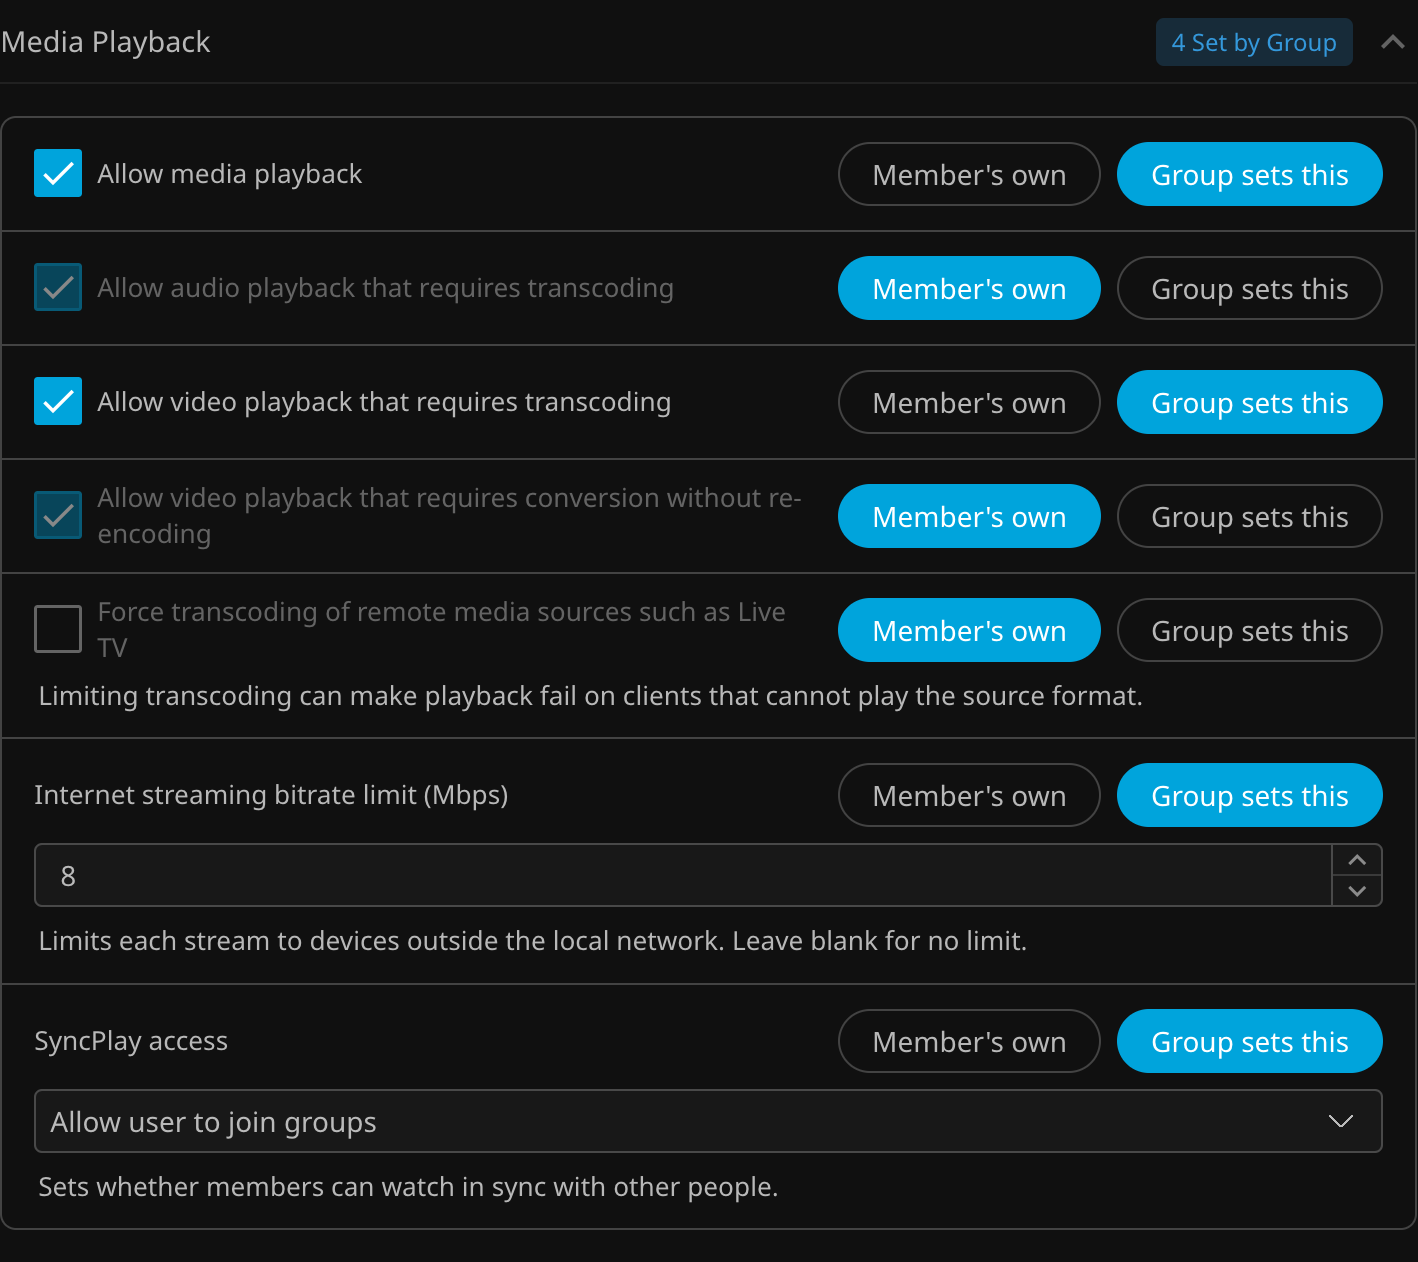
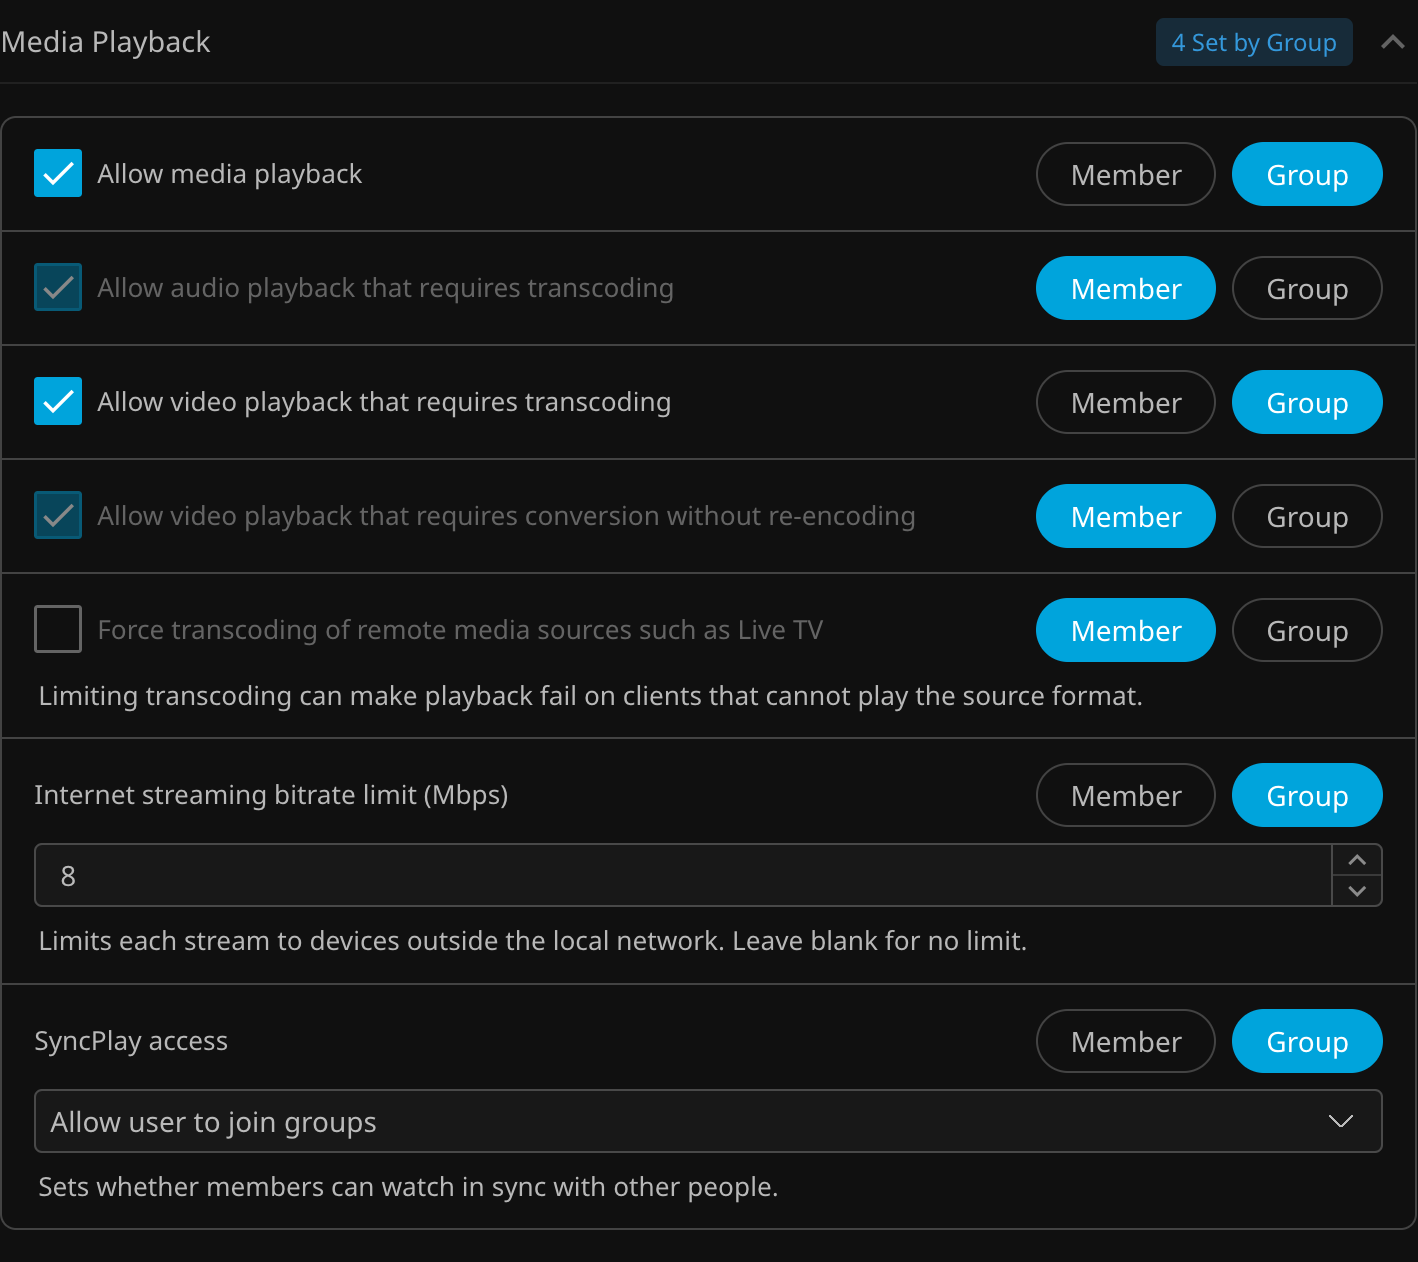
Name the setting row pills Member and Group

diff --git a/Jellyfin.Plugin.UserManagement/Configuration/usermanagement_groups.js b/Jellyfin.Plugin.UserManagement/Configuration/usermanagement_groups.js
@@ -20,8 +20,8 @@ import {
 } from './configurationpage?name=usermanagement_shared.js';
 
 // Groups page
-// Builds the Groups tab. Each setting row is an Inherit Field whose pills read Member's own and Group sets this, and only
-// settings on Group sets this reach members.
+// Builds the Groups tab. Each setting row is an Inherit Field whose pills read Member and Group, and only
+// settings on Group reach members.
 //
 // Inputs
 // view [HTMLElement]: The page the dashboard passes to the module.
@@ -59,9 +59,9 @@ export default function (view) {
         ['Movie', 'Movies'], ['Music', 'Music'], ['Trailer', 'Trailers'], ['Series', 'Shows']
     ];
 
-    // The two choices of every setting row. Only a setting on Group sets this reaches members.
-    var MEMBER_OWN = 'Member\'s own';
-    var GROUP_SETS = 'Group sets this';
+    // The two choices of every setting row. Only a setting on Group reaches members.
+    var MEMBER_OWN = 'Member';
+    var GROUP_SETS = 'Group';
 
     // Rows led by an "all" checkbox, whose list shows under it only while it is off, as Jellyfin's access page does.
     var ALL_TYPES = { library: true, channels: true, devices: true, deletion: true };
@@ -466,9 +466,9 @@ export default function (view) {
     }
 
     // mountInheritFields
-    // Puts each row's lead, its checkbox or its label, in an Inherit Field whose pills read Member's own and
-    // Group sets this. The row's controls keep the group's own values, so the field handle reads and writes nothing.
-    // While the row is Member's own, the Inherit Field dims the lead and disables its checkbox, and the controls
+    // Puts each row's lead, its checkbox or its label, in an Inherit Field whose pills read Member and
+    // Group. The row's controls keep the group's own values, so the field handle reads and writes nothing.
+    // While the row is Member, the Inherit Field dims the lead and disables its checkbox, and the controls
     // under the lead hide.
     function mountInheritFields() {
         view.querySelectorAll('.perm-row').forEach(function (row) {
@@ -490,7 +490,7 @@ export default function (view) {
     }
 
     // isManaged
-    // Says whether a setting is on Group sets this.
+    // Says whether a setting is on Group.
     //
     // Inputs
     // row [HTMLElement]: The setting row.
@@ -516,7 +516,7 @@ export default function (view) {
     }
 
     // setManaged
-    // Sets whether a setting is on Group sets this, and the group's own value of a checkbox lead.
+    // Sets whether a setting is on Group, and the group's own value of a checkbox lead.
     //
     // Inputs
     // row [HTMLElement]: The setting row.
@@ -525,7 +525,7 @@ export default function (view) {
     function setManaged(row, managed, value) {
         var handle = inheritHandles[row.getAttribute('data-perm')];
         if (!handle) return;
-        // The Inherit Field disables the lead's checkbox while inheriting, so it turns Group sets this on first and
+        // The Inherit Field disables the lead's checkbox while inheriting, so it turns Group on first and
         // the checkbox takes its value while enabled.
         handle.setValue({ inherit: false });
         var input = row.querySelector('.perm-lead-input');
@@ -535,7 +535,7 @@ export default function (view) {
     }
 
     // refreshRow
-    // Shows a row's controls only while it is Group sets this, and an access list only while its "all" checkbox is off.
+    // Shows a row's controls only while it is Group, and an access list only while its "all" checkbox is off.
     //
     // Inputs
     // row [HTMLElement]: The setting row.
@@ -548,7 +548,7 @@ export default function (view) {
     }
 
     // refreshBadges
-    // Counts the rows on Group sets this in each section, and shows the count in the section header.
+    // Counts the rows on Group in each section, and shows the count in the section header.
     function refreshBadges() {
         view.querySelectorAll('#permissionSections .base-collapsible-section, #configSections .base-collapsible-section').forEach(function (section) {
             var count = 0;
@@ -785,7 +785,7 @@ export default function (view) {
     }
 
     // renderPermBody
-    // Builds the controls under a row's lead, which show while the row is Group sets this.
+    // Builds the controls under a row's lead, which show while the row is Group.
     //
     // Inputs
     // p [object]: The setting from PERMISSIONS or CONFIG.
@@ -847,7 +847,7 @@ export default function (view) {
 
     // renderPermRow
     // Builds one setting row. The lead is the setting's checkbox, or its label when the setting has other controls,
-    // and the Inherit Field puts the Member's own and Group sets this pills beside it. The controls follow, then the
+    // and the Inherit Field puts the Member and Group pills beside it. The controls follow, then the
     // description.
     //
     // Inputs

diff --git a/Jellyfin.Plugin.UserManagement/Configuration/usermanagement_groups.html b/Jellyfin.Plugin.UserManagement/Configuration/usermanagement_groups.html
@@ -14,7 +14,7 @@
                     <!-- Intro -->
                     <div class="fieldDescription um-intro">
                         Groups apply settings to many users at once, and a user belongs to one group at a time. Only
-                        settings marked <strong>Group sets this</strong> reach members, and the rest stay as each member has them.
+                        settings marked <strong>Group</strong> reach members, and the rest stay as each member has them.
                     </div>
 
                     <div id="userCards"></div>

diff --git a/Jellyfin.Plugin.UserManagement/Configuration/usermanagement_shared.css b/Jellyfin.Plugin.UserManagement/Configuration/usermanagement_shared.css
@@ -29,7 +29,7 @@
 }
 
 /* um-setting-body */
-/* The controls under a setting row's lead, which hide while the row is Member's own. */
+/* The controls under a setting row's lead, which hide while the row is Member. */
 /* Example: <div class="um-setting-body"><div class="selectContainer">...</div></div> */
 .um-setting-body {
     display: flex;

diff --git a/Jellyfin.Plugin.UserManagement/Services/GroupService.cs b/Jellyfin.Plugin.UserManagement/Services/GroupService.cs
@@ -19,7 +19,7 @@ namespace Jellyfin.Plugin.UserManagement.Services;
 
 /// <summary>
 /// Applies <see cref="GroupDefinition"/> templates onto member <see cref="UserPolicy"/> objects,
-/// honoring the Group sets this / Member's own model: only permissions the group manages are written; the rest
+/// honoring the Group / Member model: only permissions the group manages are written; the rest
 /// are left exactly as the user has them.
 /// </summary>
 public class GroupService
@@ -120,7 +120,7 @@ public class GroupService
     }
 
     /// <summary>
-    /// Applies a group's managed (Group sets this) permissions to a single user. Administrators are always skipped.
+    /// Applies a group's managed (Group) permissions to a single user. Administrators are always skipped.
     /// </summary>
     /// <returns><c>true</c> if the policy was applied; <c>false</c> if the user was skipped.</returns>
     public async Task<bool> ApplyGroupAsync(User user, GroupDefinition group)

diff --git a/Jellyfin.Plugin.UserManagement/Models/GroupConfiguration.cs b/Jellyfin.Plugin.UserManagement/Models/GroupConfiguration.cs
@@ -6,7 +6,7 @@ namespace Jellyfin.Plugin.UserManagement.Models;
 /// <summary>
 /// The display and playback preferences a group applies to its members, mirroring the fields Jellyfin
 /// exposes on a user's Display / Home / Playback / Subtitles preference pages. Follows the same
-/// Group sets this / Member's own model as <see cref="GroupPermissions"/>: only settings the group manages overwrite
+/// Group / Member model as <see cref="GroupPermissions"/>: only settings the group manages overwrite
 /// the member's value; the rest are left exactly as the user has them.
 /// </summary>
 public class GroupConfiguration

diff --git a/Jellyfin.Plugin.UserManagement.Tests/GroupServiceConfigTests.cs b/Jellyfin.Plugin.UserManagement.Tests/GroupServiceConfigTests.cs
@@ -16,7 +16,7 @@ namespace Jellyfin.Plugin.UserManagement.Tests;
 /// <summary>
 /// Tests that <see cref="Services.GroupService.ApplyGroupAsync"/> pushes a group's managed
 /// <see cref="GroupConfiguration"/> onto the member through <c>UpdateConfigurationAsync</c>, honoring
-/// the Group sets this / Member's own model and the <see cref="GroupConfigurationExtensions.ManagesAnything"/> gate.
+/// the Group / Member model and the <see cref="GroupConfigurationExtensions.ManagesAnything"/> gate.
 /// </summary>
 [Collection("Plugin")]
 public class GroupServiceConfigTests

diff --git a/Jellyfin.Plugin.UserManagement.Tests/GroupConfigurationMergeTests.cs b/Jellyfin.Plugin.UserManagement.Tests/GroupConfigurationMergeTests.cs
@@ -7,7 +7,7 @@ using Xunit;
 namespace Jellyfin.Plugin.UserManagement.Tests;
 
 /// <summary>
-/// Tests for the Group sets this / Member's own behavior of <see cref="GroupConfigurationExtensions.ApplyTo"/>.
+/// Tests for the Group / Member behavior of <see cref="GroupConfigurationExtensions.ApplyTo"/>.
 /// </summary>
 public class GroupConfigurationMergeTests
 {

diff --git a/Jellyfin.Plugin.UserManagement.Tests/GroupMergeTests.cs b/Jellyfin.Plugin.UserManagement.Tests/GroupMergeTests.cs
@@ -7,7 +7,7 @@ using Xunit;
 namespace Jellyfin.Plugin.UserManagement.Tests;
 
 /// <summary>
-/// Tests for the Group sets this / Member's own behavior of <see cref="GroupPermissionsExtensions.ApplyTo"/>.
+/// Tests for the Group / Member behavior of <see cref="GroupPermissionsExtensions.ApplyTo"/>.
 /// </summary>
 public class GroupMergeTests
 {

diff --git a/skills/style.md b/skills/style.md
@@ -342,7 +342,7 @@ grep -o "export function create[A-Za-z]*" ~/.nuget/packages/jpkribs.jellyfin.bas
 | A read only value with a copy button, such as an invite link | `createCopyField` |
 | Day and time windows, such as an access schedule | `createAccessSchedule` |
 | A setting that inherits until overridden | `createInheritField` |
-| A group setting row, with its Member's own and Group sets this pills | See [Group Setting Rows](#group-setting-rows) |
+| A group setting row, with its Member and Group pills | See [Group Setting Rows](#group-setting-rows) |
 
 * Use `emby-select`, never `base-selector-dropdown`, for a field. `base-selector-dropdown` is only for the record picker.
 * Every input has a `<label for>`.
@@ -480,11 +480,11 @@ Every setting on the **Groups** tab is one row, built the same way in every sect
 
 * A section's rows are a Base `createList` with `layout: 'rows'`, so each row is bordered and a divider sits between rows. Each row is an `um-setting`.
 * The row starts with its lead, the setting's emby checkbox in an `um-setting-check`, or its name in an `um-setting-label` when the setting has other controls.
-* `createInheritField` wraps the lead, with the default pills, `inheritText: "Member's own"` and `overrideText: 'Group sets this'`. Never the checkbox toggle, and never the word Override.
-* The controls follow in an `um-setting-body`, shown only while the row is on **Group sets this**. A row led by an "all" checkbox shows its Checkbox List only while that checkbox is off, as Jellyfin does.
+* `createInheritField` wraps the lead, with the default pills, `inheritText: "Member"` and `overrideText: 'Group'`. Never the checkbox toggle, and never the word Override.
+* The controls follow in an `um-setting-body`, shown only while the row is on **Group**. A row led by an "all" checkbox shows its Checkbox List only while that checkbox is off, as Jellyfin does.
 * The `fieldDescription` comes last and stays visible either way.
 * A list of libraries, channels, or devices is a `createCheckboxList` whose rows have a label and a sublabel.
-* The section header counts its rows on **Group sets this** with `setCollapsibleBadge`, such as **2 Set by Group**. An **Account Rules** section shows **On** while its first checkbox is on, and its other rows show only then.
+* The section header counts its rows on **Group** with `setCollapsibleBadge`, such as **2 Set by Group**. An **Account Rules** section shows **On** while its first checkbox is on, and its other rows show only then.
 
 ## Hand Built Pieces
 

diff --git a/skills/glossary.md b/skills/glossary.md
@@ -15,9 +15,9 @@ The agreed name for every concept in this plugin. The UI, the docs, messages, an
 | Member | A user in a group. A user belongs to one group at a time | `MemberIds` | Assignee, participant |
 | Membership | The **Groups** section that picks a group's members | | Users list |
 | Default group | The group new users join, marked **(Default)** in the group select | `DefaultGroupId` | Primary group, fallback group |
-| Group sets this | The pill that makes a setting reach members. The group's value is written onto every member | `Manage<Setting>` is `true` | Override, manage, enforce, lock |
-| Member's own | The pill that leaves a setting alone, so each member keeps their own value | `Manage<Setting>` is `false` | Inherit, unmanaged |
-| Set by Group | The count of a section's settings on **Group sets this**, shown in its header as **2 Set by Group** | | Overrides, managed |
+| Group (pill) | The pill that makes a setting reach members. The group's value is written onto every member | `Manage<Setting>` is `true` | Override, manage, enforce, lock |
+| Member (pill) | The pill that leaves a setting alone, so each member keeps their own value | `Manage<Setting>` is `false` | Inherit, unmanaged |
+| Set by Group | The count of a section's settings on **Group**, shown in its header as **2 Set by Group** | | Overrides, managed |
 | Access and Features | The **Groups** section of Jellyfin user policy settings, such as library access and parental control | `GroupPermissions` | Settings, permissions page, policy |
 | Preferences | The **Groups** section of display and playback preferences, such as subtitles and home screen | `GroupConfiguration` | Configuration, preferences page |
 | Account Rules | The **Groups** section of session management, password requirements, expiry, and inactivity | | Other, lifecycle, extras |

diff --git a/docs/Groups.md b/docs/Groups.md
@@ -10,14 +10,14 @@ Pick a group from the dropdown and tick the users who belong to it under **Membe
 
 Every setting is a row with two pills beside its name.
 
-* **Group sets this**: The group's value is written onto every member. The row shows the setting's controls.
-* **Member's own**: The group leaves the setting alone, so each member keeps what they already have. The row dims its name and hides its controls.
+* **Group**: The group's value is written onto every member. The row shows the setting's controls.
+* **Member**: The group leaves the setting alone, so each member keeps what they already have. The row dims its name and hides its controls.
 
-A collapsible section counts its rows on **Group sets this** in its header, such as **2 Set by Group**.
+A collapsible section counts its rows on **Group** in its header, such as **2 Set by Group**.
 
-This is performed by looping over all users assigned to a group and updating their `UserDto.Policy` and `UserDto.Configuration` to match the rows on **Group sets this**. Every other value is kept from the user's current policy and configuration.
+This is performed by looping over all users assigned to a group and updating their `UserDto.Policy` and `UserDto.Configuration` to match the rows on **Group**. Every other value is kept from the user's current policy and configuration.
 
-![Group settings with Member's own and Group sets this](screenshots/Group%20Settings.png)
+![Group settings with Member and Group](screenshots/Group%20Settings.png)
 
 ## Sections
 
